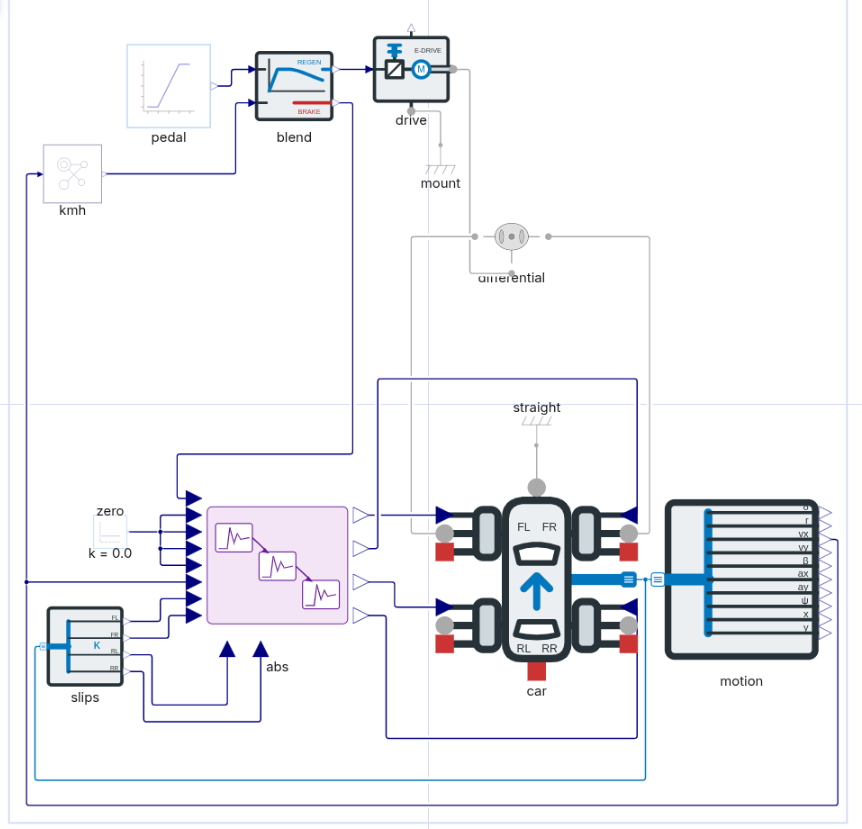
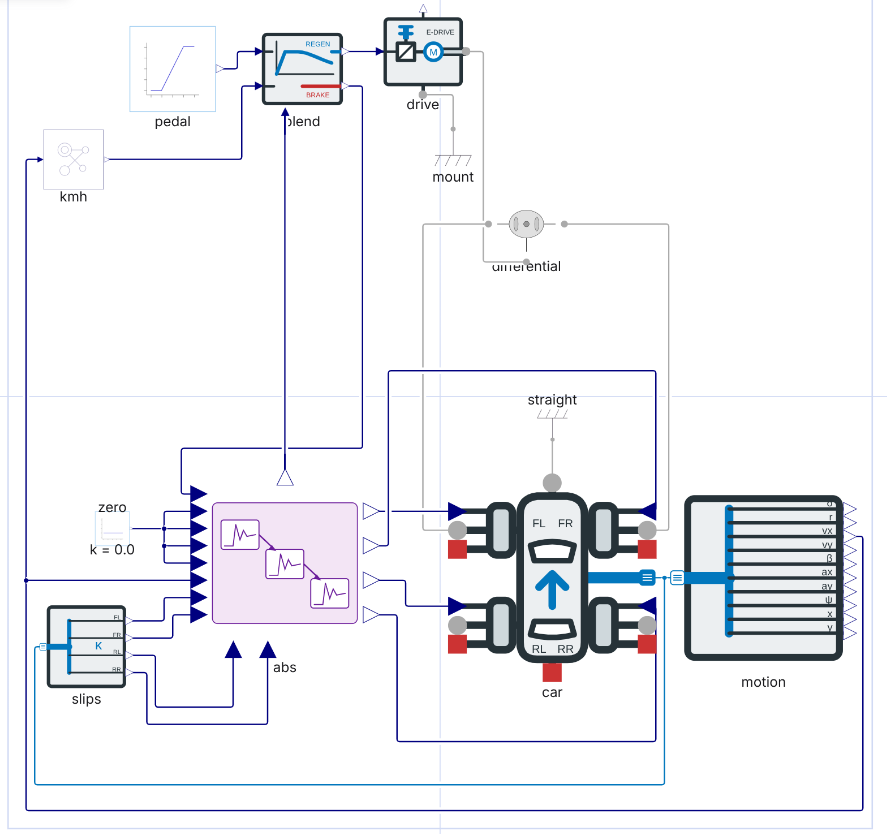
docs(lecture04): show the Studio-built machine and retake the regen bench
Step 01 of the Lecture 4 hands-on was merged without a Studio rehearsal, so the guide and
build slide 01a showed the deck's circuit drawing instead of what a student actually builds.
The machine is now built in Studio web 3.5.1 exactly as the guide says, and its diagram
replaces the drawing on both. The rehearsal confirmed Pin under + > Dyad, formulas and the
units Ohm, H, kg.m2 and N.m/A in Add parameter, Linear() from the reg dropdown, and one
connect per wire.

Studio's own routing ran three wires through the emf, which reads as a wrong connection; the
guide now says that a wire segment can be dragged aside.

The regen-blend shot is retaken from main's BEVHardStop so it shows the ABS withdrawal wire,
abs.front_active into blend.abs_active, which the old capture lacked.

Changed region(s): [[0.0, 0.0, 0.9954, 0.9952], [0.5429, 0.2413, 0.6636, 0.3619], [0.4826, 0.1809, 0.5429, 0.3016]]

diff --git a/slides/decks/lecture-04/sections/02-dc-machine.md b/slides/decks/lecture-04/sections/02-dc-machine.md
@@ -391,17 +391,10 @@ routeAlias: build-machine
 
 ## Build 01a: the machine
 
-<img src="/img/lecture-04/02-dc-machine.svg" class="mx-auto" style="max-height: 12rem; width: auto" alt="The DCMachine you build: from p, the resistor R and the inductor L into the RotationalEMF, back to n; the EMF drives the shaft through the rotor inertia J to the spline; friction T_f, iron K_i, windage k_w ω² and the constant loss C/ω brake the shaft against the housing."/>
-
-<div class="grid grid-cols-[1.15fr_1fr] gap-6 items-start">
+<div class="grid grid-cols-[1.1fr_1fr] gap-8 items-start">
 <div>
 
-*New `DCMachine` · ports from `Dyad`: `p`, `n` Pin on the left, `spline` right, `support`
-bottom · 13 parameters from the guide, `k` as its formula · parts: `resistor`, `inductor`, `emf`
-RotationalEMF, `rotor` Inertia, `friction` and `iron` SignTorque, `windage`
-QuadraticSpeedDependentTorque, `constant_loss` InverseSpeedDependentTorque · 15 wires: p → R → L →
-E → n, the rotor to `spline`, every loss on the rotor and on `support` · then in code: the
-variables and the loss powers*
+<img src="/img/lecture-04/step01-machine.png" class="mx-auto" style="max-height: 27rem" alt="The finished DCMachine in Studio: p and n on the left edge; from p, resistor and inductor along the top into emf, and emf.n back down to n; emf.rotor through rotor to spline on the right; friction, iron, windage and constant_loss in a row below, their splines joined on one line up to the shaft, every support down to the support port at the bottom; the emf housing returns down the left side to support."/>
 
 **Given:** the stdlib's `RotationalEMF`, `Resistor`, `Inductor`, `Inertia` and the
 speed-dependent loss torques
@@ -410,6 +403,13 @@ speed-dependent loss torques
 
 </div>
 <div class="stack">
+
+*New `DCMachine` · ports from `Dyad`: `p`, `n` Pin on the left, `spline` right, `support`
+bottom · 13 parameters from the guide, `k` as its formula · parts: `resistor`, `inductor`, `emf`
+RotationalEMF, `rotor` Inertia, `friction` and `iron` SignTorque, `windage`
+QuadraticSpeedDependentTorque, `constant_loss` InverseSpeedDependentTorque · 15 wires: p → R → L →
+E → n, the rotor to `spline`, every loss on the rotor and on `support` · then in code: the
+variables and the loss powers*
 
 ```txt
   P_cu = resistor.v * resistor.i
@@ -427,14 +427,16 @@ speed-dependent loss torques
 </div>
 
 <!--
-Build 01a: the machine. You build it yourself, part by part, in Studio. The picture at the top is
-the circuit from the machine-as-a-circuit slide, and it is exactly what goes into your component.
-Along the top, from the terminal p: the resistor, the inductor, and the RotationalEMF, then back
-down to the terminal n. To the right of the EMF, the shaft: the rotor inertia J, then out to the
-spline. The four orange boxes are the shaft losses, each one a braking torque between the shaft and
-the gray housing below it, which is the support port. The picture draws them after the rotor; in
-your component you wire them to the EMF's rotor, before the inertia. The shaft is rigid, so it is
-the same shaft and the same numbers.
+Build 01a: the machine. You build it yourself, part by part, in Studio, and on the left is the
+finished component as Studio draws it. The two terminals, p and n, sit on the left edge. Along the
+top, from p: the resistor, the inductor, and into the RotationalEMF in the middle; from the EMF's
+bottom pin, the blue wire runs back down to n. To the right of the EMF, the shaft: the rotor
+inertia, then out to the spline port on the right edge. In the row below are the four shaft
+losses: friction, iron, windage and the constant loss. Their shafts join on one line that rises to
+the shaft at the rotor's left flange, and that is the same point as the EMF's rotor: the shaft is
+rigid, so it is one node and the same numbers. Every loss pushes back on the housing, so each one
+has a wire down to the support port at the bottom, and the EMF's own housing comes down the left
+side to the same port.
 
 The steps are in the italic line. First, a new component `DCMachine`: right-click `MyCar`, Add
 Component. Ports are parts too: from the Dyad library, two pins, renamed p and n, on the left edge,

diff --git a/slides/site/lecture/lecture-04/index.md b/slides/site/lecture/lecture-04/index.md
@@ -216,9 +216,9 @@ New component `DCMachineDyno` in `MyCar`:
 
 #### Do this
 
-[![The DCMachine you build in steps 1–5: from p, the resistor R and the inductor L into the RotationalEMF, back to n; the EMF drives the shaft through the rotor inertia J to the spline; friction T_f, iron K_i, windage k_w ω² and the constant loss C/ω brake the shaft against the housing, the support port.](/lecture/lecture-04/img/02-dc-machine.svg)](/lecture/lecture-04/img/02-dc-machine.svg)
+[![The finished DCMachine in Studio: p and n on the left edge; from p, resistor and inductor along the top into emf, and emf.n back down to n; emf.rotor through rotor to spline on the right; friction, iron, windage and constant_loss in a row below, their splines joined on one line up to the shaft, every support down to the support port at the bottom; the emf housing returns down the left side to support.](/lecture/lecture-04/img/step01-machine.png)](/lecture/lecture-04/img/step01-machine.png)
 
-The machine of steps 1–5, as the deck draws it: the armature along the top, the shaft to the right of the `emf`, the four losses braking it against the housing. The drawing puts the losses after the rotor; wires 7–10 put them on the `emf`'s rotor, which on a rigid shaft is the same. Below it, the bench of steps 6–10.
+The machine of steps 1–5 in Studio: the armature along the top, the shaft to the right of the `emf`, the four losses in a row below, braking it against the housing. Their wires join the shaft at the rotor's left flange, the same node as the `emf`'s rotor on a rigid shaft. Below it, the bench of steps 6–10.
 
 [![The finished DCMachineDyno in Studio: voltage into supply on the left with ground below it; machine at the top right, p and n on its left edge, its shaft wired to dyno; speed into dyno below; the machine's and the dyno's supports to mounts.](/lecture/lecture-04/img/step01-dyno.png)](/lecture/lecture-04/img/step01-dyno.png)
 
@@ -242,7 +242,7 @@ The machine of steps 1–5, as the deck draws it: the armature along the top, th
    14. `windage.support → support`
    15. `constant_loss.support → support`
 
-   Wires 1–4 are the armature, *v* = *R i* + *L di/dt* + *E*. Wires 5–6 carry the air-gap torque through the rotor to the shaft. Wires 7–10 put every loss on the same shaft as the `emf`, and 11–15 send every reaction to the housing: the `emf` and the losses push on the stator as hard as on the rotor, and `support` is how the machine's mounts take that. Hover the ports before you wire them: on `emf`, `p` is at the top, `n` at the bottom, `rotor` on the right and `housing` on the left; on each loss part, `spline` is on the right and `support` at the bottom. Count the `connect` lines in code view: fifteen.
+   Wires 1–4 are the armature, *v* = *R i* + *L di/dt* + *E*. Wires 5–6 carry the air-gap torque through the rotor to the shaft. Wires 7–10 put every loss on the same shaft as the `emf`, and 11–15 send every reaction to the housing: the `emf` and the losses push on the stator as hard as on the rotor, and `support` is how the machine's mounts take that. Hover the ports before you wire them: on `emf`, `p` is at the top, `n` at the bottom, `rotor` on the right and `housing` on the left; on each loss part, `spline` is on the right and `support` at the bottom. Count the `connect` lines in code view: fifteen. Studio routes each wire itself and can run one straight through a part; drag that wire's segment aside to move it, then save with <kbd>Ctrl</kbd>+<kbd>S</kbd>.
 5. Toggle to code (⇄). The GUI has placed the ports, parts, parameters and wires; what it cannot draw are the variables a later step reads and the equations that compute them. Paste the variables among the declarations, just above `relations`, and the relations at the end of `relations`, above the `metadata` block. Save.
 
    ::: code-group

diff --git a/docs/lecture-04-handson-screenshots.md b/docs/lecture-04-handson-screenshots.md
@@ -36,7 +36,7 @@ The conventions for a re-capture:
 
 | File | Model | What must be visible |
 | ---- | ----- | -------------------- |
-| `step01-machine.png` | `HandsOn04.DCMachine` with `field` absent (the step 01 version, `RotationalEMF`), or a student's `DCMachine` built from the guide | The machine's internal diagram: `p` and `n` on the left edge, `resistor` → `inductor` → `emf` along the top and back to `n`; `emf.rotor` → `rotor` → `spline` on the right; `friction`, `iron`, `windage` and `constant_loss` in a row below, each on the rotor node and on `support` at the bottom. Not captured yet: the 2026-11 rehearsal had no browser. Until it exists, build 01a and guide step 01 show the circuit diagram `02-dc-machine.svg` (in `slides/images/lecture-04/`) instead. |
+| `step01-machine.png` | `HandsOn04.DCMachine` with `field` absent (the step 01 version, `RotationalEMF`), or a student's `DCMachine` built from the guide | The machine's internal diagram: `p` and `n` on the left edge, `resistor` → `inductor` → `emf` along the top and back to `n`; `emf.rotor` → `rotor` → `spline` on the right; `friction`, `iron`, `windage` and `constant_loss` in a row below, each on the rotor node and on `support` at the bottom. A student's `DCMachine` built from guide step 01 in Studio web 3.5.1. Three auto-routed segments (`emf.n` → `n`, `iron.spline`, `emf.housing`) are dragged clear of the `emf`, and the loss risers are moved to x = 700; the canvas is panned two arrow-key steps down so `support` fits. 980 × 827. |
 | `step01-dyno.png` | `HandsOn04.DCMachineDyno` | `voltage` (k = V) into the top of `supply`, `ground` under `supply`; `machine` at the top right with its machine icon, `p` and `n` on its left edge wired to `supply`; `speed` into `dyno`, `machine.spline` to `dyno`, both supports down to `mounts`. |
 
 ## Step 02 — the converter
@@ -61,4 +61,4 @@ The conventions for a re-capture:
 
 | File | Model | What must be visible |
 | ---- | ----- | -------------------- |
-| `step05-regen-blend.png` | `HandsOn04.BEVHardStop` | `pedal` and `kmh` into `blend`; `blend.tau_motor` into `drive`, `blend.tau_brake` into the ABS; `drive` through `differential` to the car's front spins; `zero` and `slips` into the ABS, its four outputs into the car's brakes; `abs.front_active` into `blend.abs_active`, the ABS rule; `motion` reading the bus. `RegenBlend`'s own diagram holds only its ports, so the bench shows it in place. The committed capture predates the ABS rule: it has no `front_active` → `abs_active` wire and needs retaking. |
+| `step05-regen-blend.png` | `HandsOn04.BEVHardStop` | `pedal` and `kmh` into `blend`; `blend.tau_motor` into `drive`, `blend.tau_brake` into the ABS; `drive` through `differential` to the car's front spins; `zero` and `slips` into the ABS, its four outputs into the car's brakes; `abs.front_active` into `blend.abs_active`, the ABS rule; `motion` reading the bus. `RegenBlend`'s own diagram holds only its ports, so the bench shows it in place. Taken from `main`'s `HandsOn04.BEVHardStop`: the `lecture-04-dyad-3.5` tag predates the `abs.front_active` → `blend.abs_active` wire. 887 × 834. |
